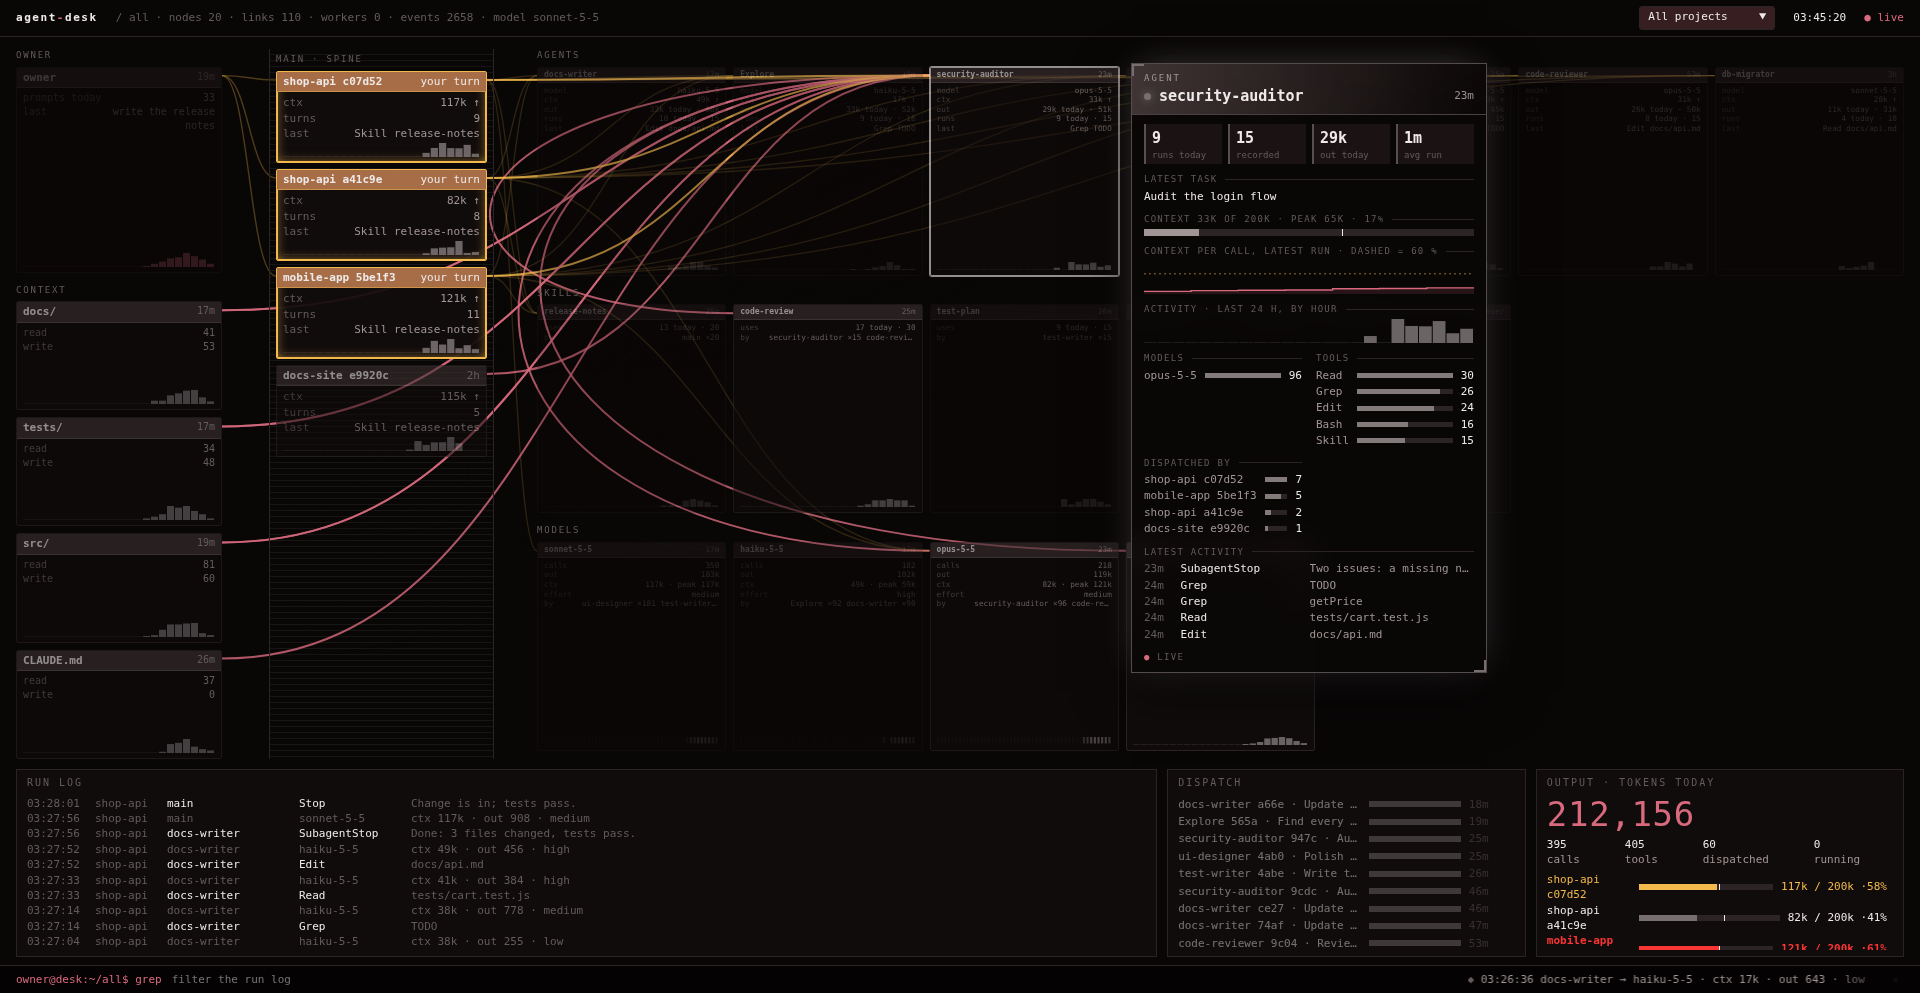
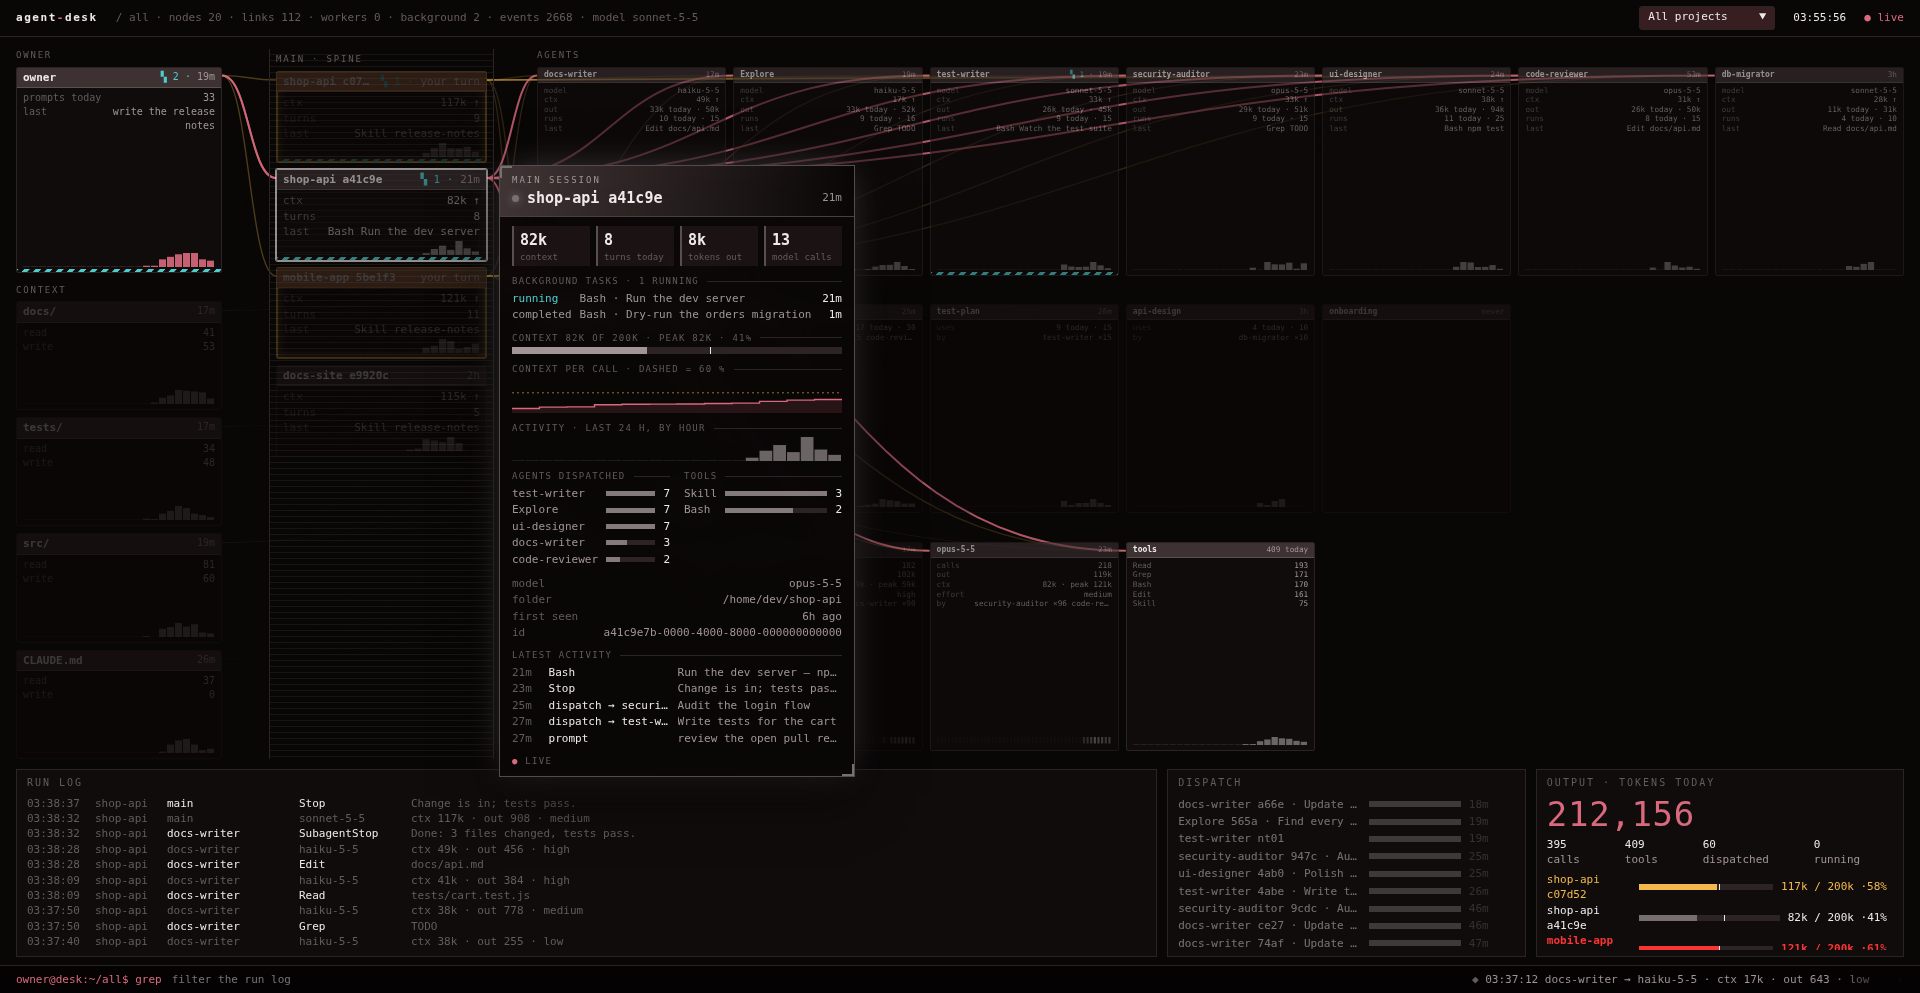
Background tasks: highlight tiles that have them, list them in the inspector
The hook now records a call's background flag, its task id and the status
from its completion notice. Completion notices no longer count as owner prompts.

diff --git a/index.html b/index.html
@@ -8,7 +8,7 @@
   color-scheme: dark; interpolate-size: allow-keywords;
   --bg: oklch(12.5% .008 15); --panel: oklch(16.5% .01 15 / .94); --bar: oklch(24% .02 15); --line: oklch(27% .012 15);
   --text: oklch(94% .006 15); --muted: oklch(68% .015 15); --faint: oklch(48% .012 15);
-  --accent: oklch(66% .14 10); --attn: oklch(82% .14 80); --wire: oklch(55% .01 15);
+  --accent: oklch(66% .14 10); --attn: oklch(82% .14 80); --wire: oklch(55% .01 15); --back: oklch(78% .11 195);   /* --back = work running in the background */
 }
 * { box-sizing: border-box }
 body {
@@ -66,6 +66,10 @@ h2 { margin: 0 0 6px; font-size: 10px; font-weight: 500; letter-spacing: .2em; c
 .idle { opacity: .6 } .never { opacity: .32 }
 .run { --c: var(--accent); border-color: var(--accent) } .wait { --c: var(--attn); border-color: var(--attn) }
 .run .badge, .wait .badge { color: var(--text) }
+/* a tile with background tasks still running: a moving striped edge and a count before its badge */
+.bgd::after { content: ''; position: absolute; inset: auto 0 0; height: 3px; background: repeating-linear-gradient(-45deg, var(--back) 0 4px, transparent 4px 8px) 0 0 / 11.31px 100%; animation: stripes .7s linear infinite }
+.bgd .badge::before { content: '▚ ' attr(data-bg) ' · '; color: var(--back) }
+@keyframes stripes { to { background-position: 11.31px 0 } }
 /* active tiles in the owner/context column and the spine: filled title bar and an inner glow (inset, so the scroll box does not clip it) */
 :is(#left, #spine) :is(.run, .wait) { box-shadow: inset 0 0 0 1px var(--c), inset 0 0 14px -4px var(--c) }
 :is(#left, #spine) :is(.run, .wait) header { background: color-mix(in oklch, var(--c) 60%, var(--bar)) }
@@ -134,6 +138,7 @@ footer input { flex: 1; min-width: 0; background: none; border: 0; outline: 0; c
 :is(.rk, .lv) b { font-weight: 500; color: var(--text); text-align: right; font-variant-numeric: tabular-nums } .fd time { color: var(--faint) } .fd .k { color: var(--text) }
 .gauge i { display: block; height: 7px; --g: var(--muted); background: linear-gradient(90deg, transparent 60%, var(--text) 60% calc(60% + 1px), transparent 0), linear-gradient(90deg, var(--g) var(--p), var(--line) 0) }
 .gauge.warm i { --g: var(--attn) } .gauge.hot i { --g: oklch(64% .23 27) }
+.bgt .on { color: var(--back) } .bgt .failed, .bgt .killed { color: oklch(64% .23 27) }
 #tip dl { display: grid; grid-template-columns: auto minmax(0, 1fr); gap: 1px 10px; margin: 0 } #tip dt { color: var(--faint) } #tip dd { margin: 0; text-align: right }
 #tip .foot { font-size: 9px; letter-spacing: .14em; text-transform: uppercase; color: var(--faint) } #tip .foot::before { content: '● '; color: var(--accent) }
 /* focus: the hovered tile and everything linked to it stay lit, the rest steps back */
@@ -144,7 +149,7 @@ footer input { flex: 1; min-width: 0; background: none; border: 0; outline: 0; c
   body { overflow: auto; height: auto; grid-template-rows: auto } #top { flex-wrap: wrap } #stage { grid-template-columns: 1fr; row-gap: 14px } #wires { display: none }
   #tip { display: none } .area, #spine { grid-auto-rows: 96px } #left .cell { flex: none; height: 96px } #spine .cell { flex-basis: 92px } #band { grid-template-columns: 1fr } .box { height: 220px }
 }
-@media (prefers-reduced-motion: reduce) { .open, #disp i, #tip { transition: none } #tip header i { animation: none } ::view-transition-group(*) { animation-duration: 0s } }
+@media (prefers-reduced-motion: reduce) { .open, #disp i, #tip { transition: none } #tip header i, .bgd::after { animation: none } ::view-transition-group(*) { animation-duration: 0s } }
 </style>
 
 <header id="top">
@@ -198,7 +203,7 @@ const types = new Map()   // agent_id → agent_type, learnt from any event carr
 const who = e => e.agent_id ? types.get(e.agent_id) || e.agent_type || 'subagent' : 'main'
 const actor = e => e.agent_id ? 'A:' + who(e) : 'S:' + e.session_id
 const fresh = () => ({ n: 0, owner: { today: 0, t: 0, text: '', hours: new Map() }, sessions: new Map(), agents: new Map(), models: new Map(),
-  tools: new Map(), toolHours: new Map(), toolBy: new Map(), feed: new Map(), skills: new Map(), ctx: new Map(), edges: new Map(), ids: new Map(), log: [], outs: [], today: { disp: 0, tools: 0, calls: 0, out: 0 } })
+  tools: new Map(), toolHours: new Map(), toolBy: new Map(), feed: new Map(), bg: new Map(), skills: new Map(), ctx: new Map(), edges: new Map(), ids: new Map(), log: [], outs: [], today: { disp: 0, tools: 0, calls: 0, out: 0 } })
 const newAgent = () => ({ t: 0, models: new Map(), ctx: [], run: '', out: 0, outToday: 0, runs: 0, runsToday: 0, ticks: new Map(), hours: new Map(), tools: new Map(), by: new Map(), peak: 0 })
 const reset = () => { for (const k in stores) stores[k] = fresh() }   // one store per project, added as projects appear
 const home = new Map()
@@ -209,6 +214,7 @@ const S = () => stores[filter]
 function links(e) {
   const a = actor(e), k = e.hook_event_name, s = 'S:' + e.session_id
   if (k === 'UserPromptSubmit') {
+    if (e.prompt?.startsWith('<task-notification')) return []   // a background task reporting back, not the owner
     const from = e.prompt?.match(/^<agent-message from="(\w+)"/)?.[1]   // a sub-agent hand-back delivered as a prompt
     return from ? [['A:' + (types.get(from) || 'subagent'), s]] : [['O', s]]
   }
@@ -251,6 +257,10 @@ function add(s, e, L) {
     inc(m.efforts, e.effort || 'default'); m.calls++; m.out += e.out; m.ctx = e.ctx; m.peak = Math.max(m.peak, e.ctx); m.t = Math.max(m.t, e.t); m.effort = e.effort || m.effort; inc(m.by, name); inc(m.hours, hr)
     row = [short(e.model), `ctx ${fmt(e.ctx)} · out ${fmt(e.out)}${e.effort ? ' · ' + e.effort : ''}`, 'u']
   } else if (k === 'PreToolUse') {
+    // work sent to the background (a command, an agent, a workflow) runs on after the call returns: tracked until its completion notice
+    if (e.bg || e.tool_name === 'Workflow' || e.in?.includes('"run_in_background":true'))
+      s.bg.set(e.tool_use_id, { a: actor(e), s: 'S:' + e.session_id, tool: tool(e.tool_name), label: e.desc || arg(e), t0: e.t })
+    if (e.tool_name === 'TaskStop') for (const b of s.bg.values()) if (b.tid && !b.t1 && e.in?.includes(`"${b.tid}"`)) { b.t1 = e.t; b.status = 'stopped' }
     if (e.tool_name === 'Agent') {
       const sub = e.sub || 'general-purpose', tg = get(s.agents, sub, newAgent)
       tg.task = e.desc || arg(e); tg.runs++; tg.t = Math.max(tg.t, e.t)
@@ -272,12 +282,20 @@ function add(s, e, L) {
       row = [tn, e.desc ? `${e.desc} — ${arg(e)}` : arg(e)]
     }
   } else if (k === 'UserPromptSubmit') {
-    if (!e.prompt?.startsWith('<agent-message')) {
-      Object.assign(s.owner, { t: e.t, text: e.prompt || '' }); inc(s.owner.hours, hr)
-      if (today) { s.owner.today++; ses.turns++ }
+    const note = e.prompt?.match(/^<task-notification>\s*<task-id>([^<]+)<\/task-id>\s*<tool-use-id>([^<]+)/)
+    if (note) {   // a background task finished: matched by the call that started it, else by its task id
+      const b = s.bg.get(note[2]) || [...s.bg.values()].find(b => b.tid === note[1])
+      if (b && !b.t1) { b.t1 = e.t; b.status = e.bgstatus || 'completed' }
+      row = ['background ' + (b?.status || e.bgstatus || 'ended'), b?.label || note[1]]
+    } else {
+      if (!e.prompt?.startsWith('<agent-message')) {
+        Object.assign(s.owner, { t: e.t, text: e.prompt || '' }); inc(s.owner.hours, hr)
+        if (today) { s.owner.today++; ses.turns++ }
+      }
+      row = ['prompt', e.prompt || '', 'hit']
     }
-    row = ['prompt', e.prompt || '', 'hit']
-  } else if (k !== 'PostToolUse') {
+  } else if (k === 'PostToolUse') { if (e.bgid && s.bg.has(e.tool_use_id)) s.bg.get(e.tool_use_id).tid = e.bgid
+  } else {
     const msg = e.last_assistant_message
     if (msg) { s.outs.push({ t: e.t, who: name, text: msg }); if (s.outs.length > 20) s.outs.shift() }
     row = [k, msg || '']
@@ -479,6 +497,11 @@ function render() {
   const fit = Math.ceil((items.length + open.size * 3) / cols) + Math.ceil((models.length + 1) / cols) + Math.ceil(skills.length / cols)
   if (innerWidth > 900) R.style.setProperty('--h', Math.max(84, Math.floor((R.clientHeight - (skills.length ? 54 : 36) - (fit + 1) * 7) / fit)) + 'px')
 
+  // background tasks still running mark the tile that started them, its session, and the owner
+  const back = new Map(), bgOn = [...s.bg.values()].filter(b => alive(s, b, now))
+  for (const b of bgOn) for (const key of new Set([b.a, b.s, 'O'])) inc(back, key)
+  for (const [key, n] of nodes) { n.el.classList.toggle('bgd', back.has(key)); n.badge.dataset.bg = back.get(key) || '' }
+
   for (const name of names) {
     const n = nodes.get('A:' + name), on = open.has(name)
     n.el.classList.toggle('open', on)
@@ -490,7 +513,7 @@ function render() {
     if (a && b.width && (a.x !== b.x || a.y !== b.y)) k.animate([{ transform: `translate(${a.x - b.x}px, ${a.y - b.y}px)` }, { transform: 'none' }], { duration: 500, easing: 'cubic-bezier(.2, .8, .2, 1)' })
   }
 
-  $('gstat').textContent = `/ ${filter.toLowerCase()} · nodes ${sess.length + names.length + s.models.size + ctx.length + 2} · links ${s.edges.size} · workers ${running.length} · events ${s.n}`
+  $('gstat').textContent = `/ ${filter.toLowerCase()} · nodes ${sess.length + names.length + s.models.size + ctx.length + 2} · links ${s.edges.size} · workers ${running.length} · background ${bgOn.length} · events ${s.n}`
     + (s.models.size ? ' · model ' + short([...s.models].sort((a, b) => b[1].t - a[1].t)[0][0]) : '')
 
   const q = grep.toLowerCase(), lines = (q ? s.log.filter(r => `${r.who} ${r.kind} ${r.text}`.toLowerCase().includes(q)) : s.log).slice(-200).reverse()
@@ -582,6 +605,9 @@ function inspect(k, s, now) {
     charts: [...a.ctx.length > 1 ? [['context per call, latest run · dashed = 60 %', ctxline(a.ctx, w, C.accent), 34]] : [], ['activity' + by24, hist(a.hours)]],
     ranks: [['models', best(a.models).map(([m, v]) => [short(m), v])], ['tools', best(a.tools)], ['dispatched by', best(a.by)]] }
 }
+// A background task counts as running until its completion notice or a stop. Nothing reports a task that died with its session,
+// so it also needs a session active in the last 2 h, and one logged without its task id (older logs) expires after a day.
+function alive(s, b, now) { return !b.t1 && now - (s.sessions.get(b.s.slice(2))?.t || 0) < 7200 && (b.tid || now - b.t0 < 86400) }
 function tipHide() {
   hov = null; tip.className = ''; stage.classList.remove('focus'); kick(300)
   for (const n of nodes.values()) n.el.classList.remove('rel', 'hov')
@@ -602,6 +628,9 @@ function tipPaint() {
   if (d.note) out.push(h('p', 'dim', d.note))
   if (d.text?.[1]) out.push(sec(d.text[0], '', [h('p', '', d.text[1].replace(/\s+/g, ' '))]))
   if (d.live?.length) out.push(sec('running now', 'lv', d.live.flatMap(([a, b, c]) => [h('span', 'dim', a), h('span', '', b), h('b', '', c)])))
+  const tasks = [...s.bg.values()].filter(b => hov === 'O' || b.a === hov || b.s === hov), on = tasks.filter(b => alive(s, b, now))
+  if (tasks.length) out.push(sec(`background tasks · ${on.length} running`, 'lv bgt', [...on.reverse(), ...tasks.filter(b => !on.includes(b)).slice(-3).reverse()]
+    .flatMap(b => { const st = on.includes(b) ? 'running' : b.status || 'unknown'; return [h('span', st === 'running' ? 'on' : st, st), h('span', '', `${b.tool} · ${b.label}`), h('b', '', b.t1 || st === 'running' ? span((b.t1 || now) - b.t0) : '—')] })))
   if (d.gauge) out.push(sec(`${d.gauge[1]} · ${pct(d.gauge[0])}`, 'gauge' + (d.gauge[0] >= .6 ? ' hot' : d.gauge[0] >= .5 ? ' warm' : ''), [bar(d.gauge[0])]))
   for (const [title, fn, ht] of d.charts || []) { const c = h('canvas'); if (ht) c.style.height = ht + 'px'; draws.push([c, fn]); out.push(sec(title, '', [c])) }
   const rk = (d.ranks || []).filter(([, e]) => e.length).map(([title, e]) => sec(title, 'rk', e.flatMap(([l, v]) => [h('span', '', l), bar(v / e[0][1]), h('b', '', v.toLocaleString())])))

diff --git a/README.md b/README.md
@@ -5,9 +5,11 @@ A second brain dashboard for agent and models monitoring and health.
 ![The dashboard: owner and context on the left, main sessions in the middle, agents and models on the right, run log below; demo data](sample.png)
 One local page that shows, live, what every Claude Code session on your machine is doing: your prompts, the main sessions, every sub-agent and the model it runs on, skills and who used them, tool calls, token output, and how full each context window is (amber at 50%, red at 60%). It finds all projects by itself — any agents, any models — and lets you filter by project.
 
+A tile with work still running in the background (a command, an agent or a workflow sent there) carries a moving teal edge and a count; so do its session and the owner tile.
+
 Hover any tile (or reach it with Tab) for a live card with its full detail: key figures, context against its window, activity charts, who called it, which models and tools it used, and its latest actions. Everything linked to that tile stays lit while the rest steps back.
 
-![The inspector card open on an agent tile, with its links highlighted; demo data](inspector.png)
+![The inspector card open on a session tile, with its links highlighted; demo data](inspector.png)
 
 Everything stays on your machine: one Node process on `127.0.0.1:4777`, no dependencies, no network calls.
 
@@ -91,6 +93,8 @@ Script: `node ~/.claude/monitor/cli.mjs uninstall`, then delete `~/.claude/monit
 - The context window size is not in the data: a model is treated as 1M once it has been seen above 200k, else 200k.
 - On start only the last 1 MB of each transcript is replayed.
 - The styled scrollbars and project menu need a Chromium browser; elsewhere they fall back to plain ones.
+
+- Nothing reports a background task that died with its session, so a task shows as running only while its session was active in the last 2 hours.
 
 ## Develop
 
